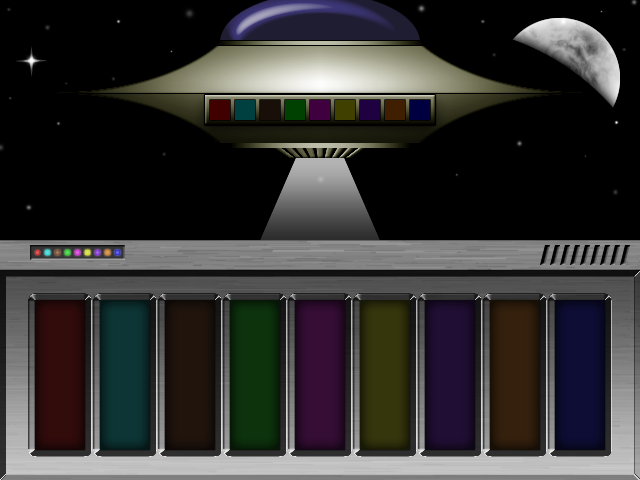
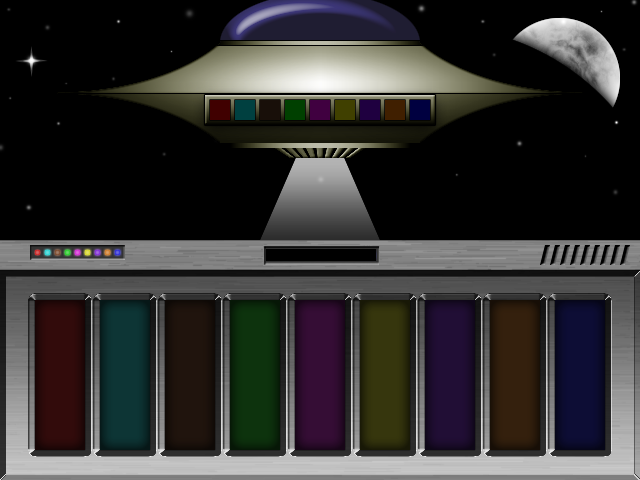
quick and dirty countdown modification change game name in readme.txt

Changed region(s): [[0.4062, 0.5, 0.5938, 0.5625]]

diff --git a/gamelib/level.py b/gamelib/level.py
@@ -5,6 +5,7 @@ import pygame
 import scene
 import button
 import data
+import string
 
 class LevelScene(scene.Scene):
     '''Is the basic level.
@@ -158,10 +159,14 @@ class LevelScene(scene.Scene):
                     self.seqStart()
 
     def draw(self, screen):
-        self.stepCounterText = data.render_text('LiberationSans-Regular.ttf', 15, "time "+str(self.currentCounterStep), (255, 0,0))
-
+        
+        if self.stepCountElapsingTime:
+            self.stepCounterText = data.render_text('DIGITALDREAM.ttf', 10, "Countdown:"+string.zfill(str(self.currentCounterStep),3), (255, 0,0))
+        else:
+            self.stepCounterText = data.render_text('DIGITALDREAM.ttf', 10, "Countdown:---", (255, 0,0))
+            
         screen.blit(self.background, (0, 0))
-        screen.blit(self.stepCounterText, (300,0))
+        screen.blit(self.stepCounterText, (270,250))
 
         self.sequence.draw(screen)
         self.buttons.draw(screen)
